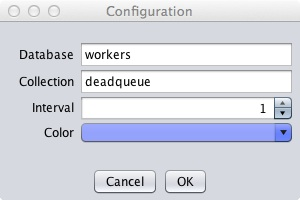
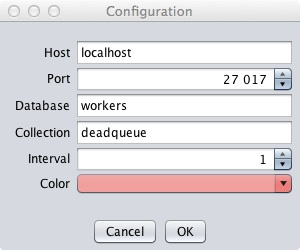
configurable host & port; simplified mongo connection lifecycle; ui improvement

diff --git a/src/main/java/org/mansart/mongocount/gui/ConfigurationDialog.java b/src/main/java/org/mansart/mongocount/gui/ConfigurationDialog.java
@@ -21,10 +21,12 @@ public final class ConfigurationDialog extends JDialog {
     };
 
     private Configuration configuration = null;
+    private JTextField hostField = new JTextField();
+    private JSpinner portField = new JSpinner();
     private JTextField dbnameField = new JTextField();
     private JTextField collnameField = new JTextField();
     private JSpinner intervalField = new JSpinner();
-    private JComboBox<Color> colorField = new JComboBox<Color>(COLORS);
+    private JComboBox<Color> colorField = new JComboBox<>(COLORS);
     private JButton cancelButton = new JButton("Cancel");
     private JButton okButton = new JButton("OK");
 
@@ -41,6 +43,8 @@ public final class ConfigurationDialog extends JDialog {
         this.addWindowListener(new WindowAdapter() {
             @Override
             public void windowOpened(WindowEvent e) {
+                ConfigurationDialog.this.hostField.setText(ConfigurationDialog.this.configuration.getHost());
+                ConfigurationDialog.this.portField.setValue(ConfigurationDialog.this.configuration.getPort());
                 ConfigurationDialog.this.dbnameField.setText(ConfigurationDialog.this.configuration.getDbname());
                 ConfigurationDialog.this.collnameField.setText(ConfigurationDialog.this.configuration.getCollname());
                 ConfigurationDialog.this.intervalField.setValue(ConfigurationDialog.this.configuration.getInterval());
@@ -58,11 +62,13 @@ public final class ConfigurationDialog extends JDialog {
         this.okButton.addActionListener(new ActionListener() {
             @Override
             public void actionPerformed(ActionEvent e) {
+                String host = ConfigurationDialog.this.hostField.getText();
+                int port = (Integer) ConfigurationDialog.this.portField.getValue();
                 String dbname = ConfigurationDialog.this.dbnameField.getText();
                 String collname = ConfigurationDialog.this.collnameField.getText();
                 int interval = (Integer) ConfigurationDialog.this.intervalField.getValue();
                 Color color = (Color) ConfigurationDialog.this.colorField.getSelectedItem();
-                ConfigurationDialog.this.configuration.udpate(dbname, collname, interval, color);
+                ConfigurationDialog.this.configuration.udpate(host, port, dbname, collname, interval, color);
                 ConfigurationDialog.this.setVisible(false);
             }
         });
@@ -76,11 +82,15 @@ public final class ConfigurationDialog extends JDialog {
     }
 
     private void setupGraphics() {
-        this.setSize(300, 200);
+        this.setSize(300, 250);
 
         this.colorField.setRenderer(new ColorRenderer());
         this.colorField.setSelectedItem(Color.RED);
 
+        JLabel hostLabel = new JLabel("Host");
+        hostLabel.setHorizontalAlignment(JLabel.RIGHT);
+        JLabel portLabel = new JLabel("Port");
+        portLabel.setHorizontalAlignment(JLabel.RIGHT);
         JLabel dbnameLabel = new JLabel("Database");
         dbnameLabel.setHorizontalAlignment(JLabel.RIGHT);
         JLabel collnameLabel = new JLabel("Collection");
@@ -102,46 +112,70 @@ public final class ConfigurationDialog extends JDialog {
         constraints.gridy = 0;
         constraints.weightx = labelWeightx;
         constraints.insets = labelInsets;
-        formPanel.add(dbnameLabel, constraints);
+        formPanel.add(hostLabel, constraints);
 
         constraints.gridx = 1;
         constraints.gridy = 0;
         constraints.weightx = controlWeightx;
         constraints.insets = controlInsets;
-        formPanel.add(this.dbnameField, constraints);
+        formPanel.add(this.hostField, constraints);
 
         constraints.gridx = 0;
         constraints.gridy = 1;
+        constraints.weightx = labelWeightx;
+        constraints.insets = labelInsets;
+        formPanel.add(portLabel, constraints);
+
+        constraints.gridx = 1;
+        constraints.gridy = 1;
+        constraints.weightx = controlWeightx;
+        constraints.insets = controlInsets;
+        formPanel.add(this.portField, constraints);
+
+        constraints.gridx = 0;
+        constraints.gridy = 2;
+        constraints.weightx = labelWeightx;
+        constraints.insets = labelInsets;
+        formPanel.add(dbnameLabel, constraints);
+
+        constraints.gridx = 1;
+        constraints.gridy = 2;
+        constraints.weightx = controlWeightx;
+        constraints.insets = controlInsets;
+        formPanel.add(this.dbnameField, constraints);
+
+        constraints.gridx = 0;
+        constraints.gridy = 3;
         constraints.weightx = labelWeightx;
         constraints.insets = labelInsets;
         formPanel.add(collnameLabel, constraints);
 
         constraints.gridx = 1;
-        constraints.gridy = 1;
+        constraints.gridy = 3;
         constraints.weightx = controlWeightx;
         constraints.insets = controlInsets;
         formPanel.add(this.collnameField, constraints);
 
         constraints.gridx = 0;
-        constraints.gridy = 2;
+        constraints.gridy = 4;
         constraints.weightx = labelWeightx;
         constraints.insets = labelInsets;
         formPanel.add(intervalLabel, constraints);
 
         constraints.gridx = 1;
-        constraints.gridy = 2;
+        constraints.gridy = 4;
         constraints.weightx = controlWeightx;
         constraints.insets = controlInsets;
         formPanel.add(this.intervalField, constraints);
 
         constraints.gridx = 0;
-        constraints.gridy = 3;
+        constraints.gridy = 5;
         constraints.weightx = labelWeightx;
         constraints.insets = labelInsets;
         formPanel.add(colorLabel, constraints);
 
         constraints.gridx = 1;
-        constraints.gridy = 3;
+        constraints.gridy = 5;
         constraints.weightx = controlWeightx;
         constraints.insets = controlInsets;
         formPanel.add(this.colorField, constraints);

diff --git a/src/main/java/org/mansart/mongocount/Counter.java b/src/main/java/org/mansart/mongocount/Counter.java
@@ -3,13 +3,16 @@ package org.mansart.mongocount;
 import com.mongodb.DB;
 import com.mongodb.DBCollection;
 import com.mongodb.MongoClient;
-import org.mansart.mongocount.exception.MongoException;
 
 import java.net.UnknownHostException;
+import java.text.DateFormat;
+import java.text.SimpleDateFormat;
 import java.util.ArrayList;
+import java.util.Date;
 
 public final class Counter implements Configuration.Listener, Runnable {
-    private ArrayList<Listener> listeners = new ArrayList<Listener>();
+    private static final DateFormat DATE_FORMAT = new SimpleDateFormat("HH:mm:ss");
+    private ArrayList<Listener> listeners = new ArrayList<>();
     private MongoClient client = null;
     private Configuration configuration = null;
     private Thread thread = null;
@@ -19,27 +22,10 @@ public final class Counter implements Configuration.Listener, Runnable {
         this.configuration.addListener(this);
     }
 
-    public void connect() throws MongoException {
-        try {
-            this.client = new MongoClient("localhost");
-        } catch (UnknownHostException e) {
-            throw new MongoException("Unable to setup", e);
-        }
-    }
-
-    public void disconnect() {
-        if (this.client != null) this.client.close();
-    }
-
     public void start() {
-        if (!this.configuration.getDbname().isEmpty() &&
-            !this.configuration.getCollname().isEmpty() &&
-            this.configuration.getInterval() > 0) {
-
-            this.thread = new Thread(this);
-            this.thread.start();
-            this.notifyListenersOfCountStart();
-        }
+        this.thread = new Thread(this);
+        this.thread.start();
+        this.notifyListenersOfCountStart();
     }
 
     public void stop() {
@@ -83,18 +69,31 @@ public final class Counter implements Configuration.Listener, Runnable {
         }
     }
 
+    private void notifyListenersOfCountError() {
+        for (Listener listener : this.listeners) {
+            listener.onCountError();
+        }
+    }
+
     @Override
     public void run() {
-        DB db = this.client.getDB(this.configuration.getDbname());
-        DBCollection coll = db.getCollection(this.configuration.getCollname());
-        while (this.thread != null && Thread.currentThread().getId() == this.thread.getId()) {
-            long count = coll.count();
-            this.notifyListenersOfCount(count);
-            try {
+        try {
+            System.out.println(this.configuration.toString());
+            MongoClient client = new MongoClient(this.configuration.getHost(), this.configuration.getPort());
+            DB db = client.getDB(this.configuration.getDbname());
+            DBCollection coll = db.getCollection(this.configuration.getCollname());
+            while (this.thread != null && Thread.currentThread().getId() == this.thread.getId()) {
+                long count = coll.count();
+                System.out.println("[" + DATE_FORMAT.format(new Date()) + "] " + count);
+                this.notifyListenersOfCount(count);
                 Thread.sleep(this.configuration.getInterval() * 1000);
-            } catch (InterruptedException e) {
-                e.printStackTrace();
             }
+            if (this.client != null) this.client.close();
+        } catch (Exception e) {
+            this.stop();
+            this.notifyListenersOfCountError();
+            System.out.println("Processing error...");
+            e.printStackTrace();
         }
     }
 
@@ -102,5 +101,6 @@ public final class Counter implements Configuration.Listener, Runnable {
         public void onCountStart();
         public void onCountStop();
         public void onCount(long count);
+        public void onCountError();
     }
 }

diff --git a/src/main/java/org/mansart/mongocount/Configuration.java b/src/main/java/org/mansart/mongocount/Configuration.java
@@ -4,11 +4,21 @@ import java.awt.*;
 import java.util.ArrayList;
 
 public final class Configuration {
-    private ArrayList<Listener> listeners = new ArrayList<Listener>();
+    private ArrayList<Listener> listeners = new ArrayList<>();
+    private String host = "localhost";
+    private int port = 27017;
     private String dbname = "";
     private String collname = "";
     private int interval = 1;
     private Color color = Color.RED;
+
+    public String getHost() {
+        return this.host;
+    }
+
+    public int getPort() {
+        return this.port;
+    }
 
     public String getDbname() {
         return this.dbname;
@@ -26,7 +36,9 @@ public final class Configuration {
         return this.color;
     }
 
-    public void udpate(String dbname, String collname, int interval, Color color) {
+    public void udpate(String host, int port, String dbname, String collname, int interval, Color color) {
+        this.host = host;
+        this.port = port;
         this.dbname = dbname;
         this.collname = collname;
         this.interval = interval;
@@ -50,5 +62,9 @@ public final class Configuration {
 
     public static interface Listener {
         public void onConfigurationUpdate();
+    }
+
+    public String toString() {
+        return this.dbname + "." + this.collname + "@" + this.host + ":" + this.port;
     }
 }

diff --git a/src/main/java/org/mansart/mongocount/gui/Window.java b/src/main/java/org/mansart/mongocount/gui/Window.java
@@ -191,4 +191,17 @@ public final class Window extends JPanel implements Configuration.Listener, Coun
             }
         });
     }
+
+    @Override
+    public void onCountError() {
+        SwingUtilities.invokeLater(new Runnable() {
+            @Override
+            public void run() {
+                JOptionPane.showMessageDialog(Window.this,
+                    "An error occured while counting : " + Window.this.configuration,
+                    "Processing error",
+                    JOptionPane.ERROR_MESSAGE);
+            }
+        });
+    }
 }

diff --git a/src/main/java/org/mansart/mongocount/Application.java b/src/main/java/org/mansart/mongocount/Application.java
@@ -11,7 +11,6 @@ public final class Application {
     public static void main(String[] args) throws Exception {
         final Configuration configuration = new Configuration();
         final Counter counter = new Counter(configuration);
-        counter.connect();
 
         try {
             for (UIManager.LookAndFeelInfo info : UIManager.getInstalledLookAndFeels()) {
